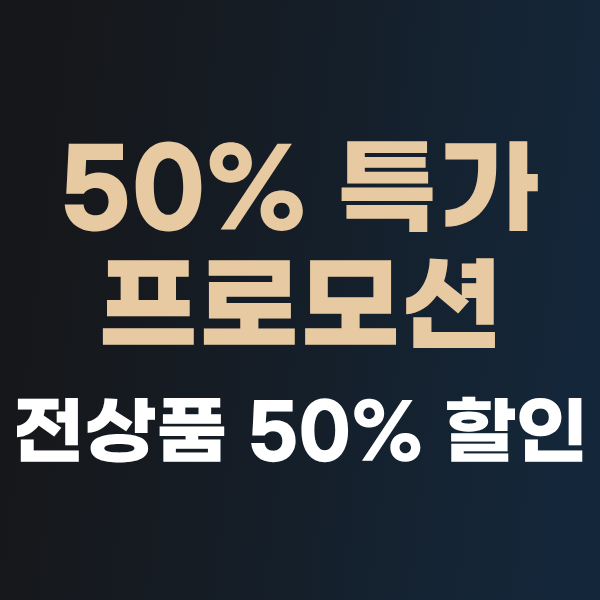
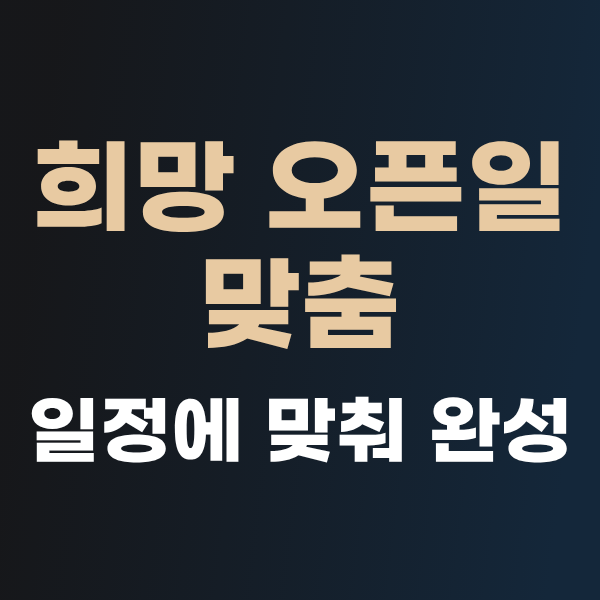
fix : 혜택 광고 카드와 가격 안내 공유 이미지를 지금 플랜·혜택에 맞춘다

Changed region(s): [[0.06, 0.21, 0.93, 0.39], [0.03, 0.66, 0.99, 0.78], [0.15, 0.42, 0.84, 0.6]]

diff --git a/lib/adCarouselJsonLd.ts b/lib/adCarouselJsonLd.ts
@@ -64,11 +64,13 @@ const DIFFERENCE_TILES: Tile[] = [
 ]
 
 const BENEFITS_TILES: Tile[] = [
-  /* 남 */ { name: '50% 특가 프로모션 — 전상품 50% 할인', img: '/images/ads/benefits-01.png' },
-  /* 흰 */ { name: '월 유지보수 무제한 — 고객 맞춤 이미지·문구 수정', img: '/images/ads/benefits-02.png' },
-  /* 남 */ { name: '무료 상담 — 연중무휴 24시간 상담', img: '/images/ads/benefits-03.png' },
+  // 01·02·03 은 2026-10-12 에 서비스 카드 01·04·05 를 옮겨 왔다 — 50% 할인·유지보수 무제한·제휴 마케팅을
+  // 더는 하지 않아서다. /service 는 /benefits 로 넘어가 서비스 카드가 검색에 나갈 일이 없어 겹치지 않는다
+  /* 남 */ { name: '희망 오픈일 맞춤 — 일정에 맞춰 완성', img: '/images/ads/benefits-01.png' },
+  /* 흰 */ { name: 'PC·모바일 최적화 — 모바일에서도 빠른 로딩', img: '/images/ads/benefits-02.png' },
+  /* 남 */ { name: 'SNS 연동 — 카카오톡·인스타 자유롭게 연결', img: '/images/ads/benefits-03.png' },
   /* 흰 */ { name: '합리적 가성비 — 필요한 기능만 부담 없이 시작', img: '/images/ads/benefits-04.png' },
-  /* 남 */ { name: '제휴 마케팅 연결 — 블로그·인스타 플레이스까지', img: '/images/ads/benefits-05.png' },
+  /* 남 */ { name: '무료 상담 — 연중무휴 24시간 상담', img: '/images/ads/benefits-05.png' },
 ]
 
 /**
